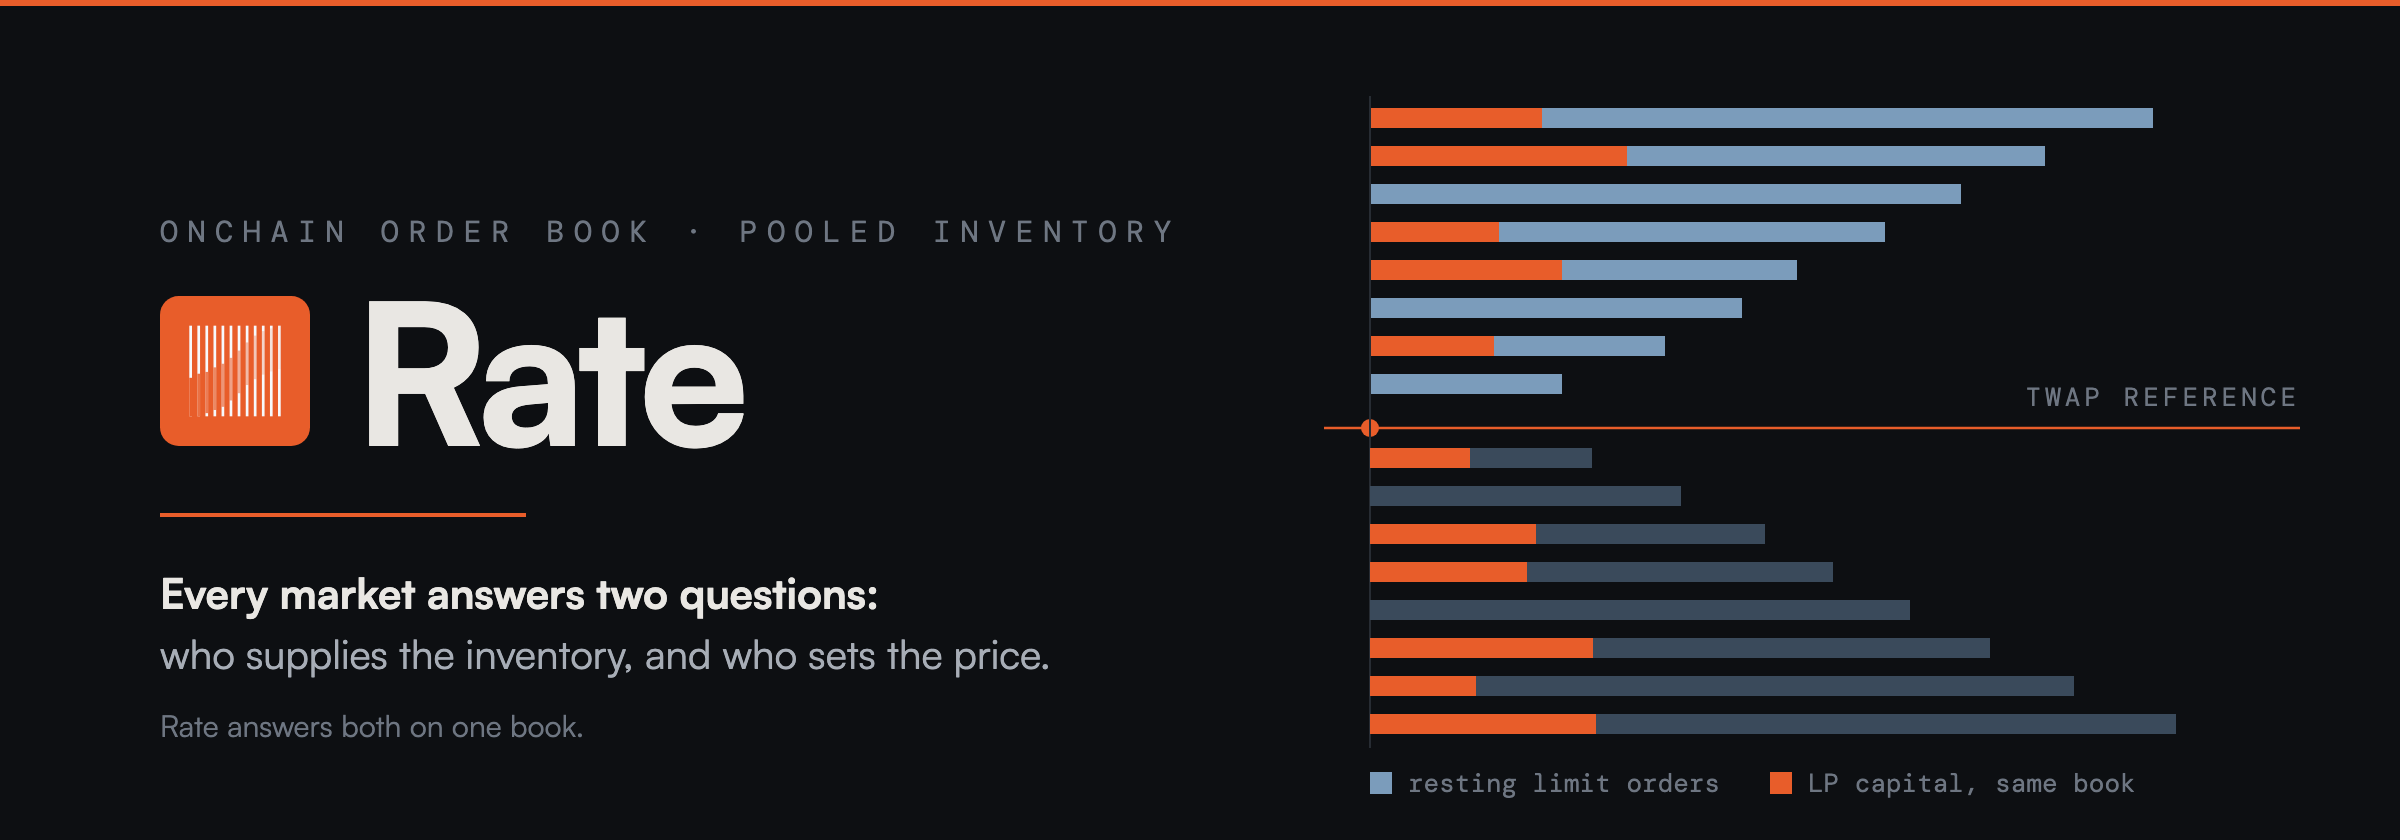
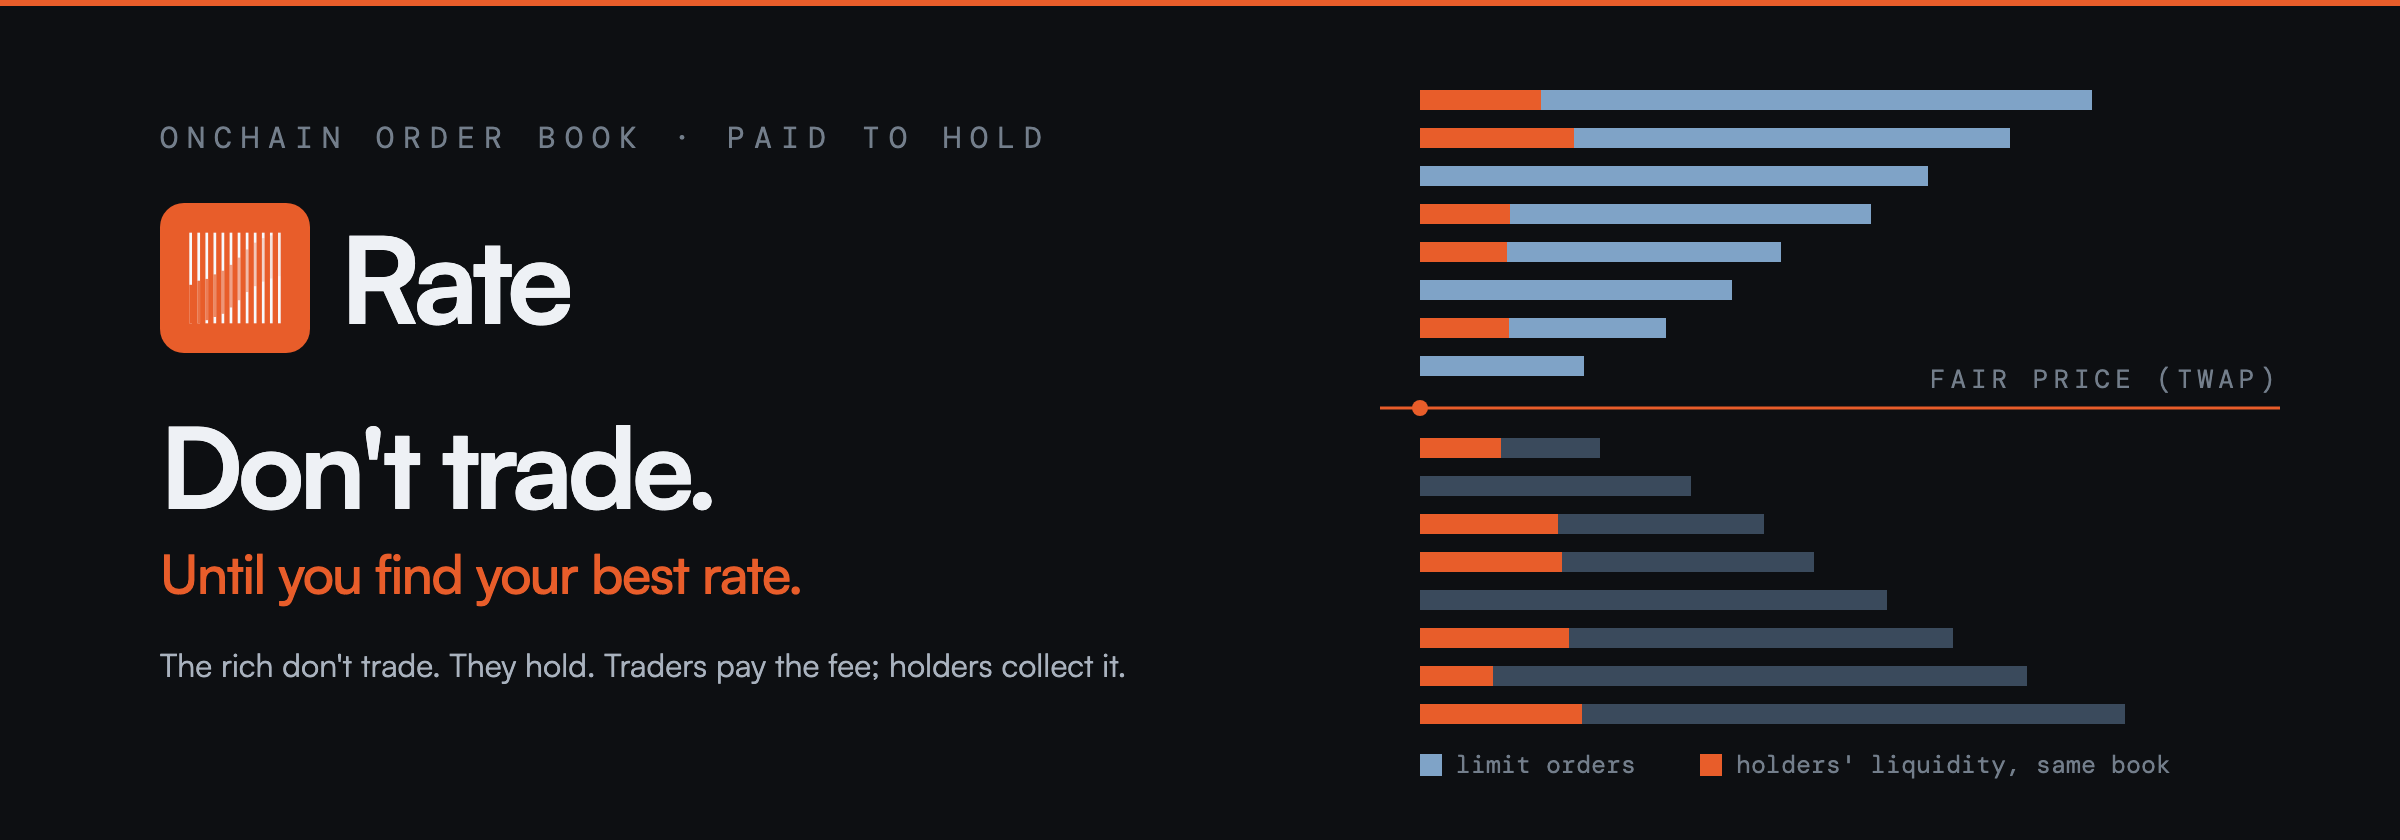
Don't trade. Until you find your best rate.
The profile leads with the brand line and the holder story, with the two
studies it rests on linked. The architecture section describes band pools
(BandPool / BandPositionManager) instead of the retired Pool.sol, and the
simulation figures say which design they measured.

diff --git a/profile/README.md b/profile/README.md
@@ -1,99 +1,90 @@
 <div align="center">
-  <img src="assets/profile.png" alt="Rate" width="96" />
-</div>
-
-<div align="center">
   <picture>
     <source media="(prefers-color-scheme: light)" srcset="assets/rate-banner-light.png" />
-    <img src="assets/rate-banner-dark.png" alt="Rate — an onchain order book with pooled inventory" width="900" />
+    <img src="assets/rate-banner-dark.png" alt="Rate. Don't trade. Until you find your best rate." width="900" />
   </picture>
 </div>
 
 <div align="center">
 
-**A fully onchain central limit order book, with permissionless liquidity resting on it.**
+**Don't trade. Until you find your best rate.**
 
 </div>
 
 ---
 
-## Every market answers two questions
+## The rich don't trade. They hold.
 
-Every trading venue — onchain or not — has to solve two problems that are easy to
-conflate but genuinely separate:
+Most of crypto is built to make you trade more: perps, leverage, points for volume.
+Every extra trade is a fee someone else collects. The evidence has been in for a long time:
 
-- **Inventory** — who supplies the assets available to trade against, and who bears the
-  risk of holding them while prices move?
-- **Settlement** — given a desire to trade, how is the execution price determined, and how
-  is the trade actually carried out?
+- Of 66,465 US households, those that traded most earned **11.4%** a year while the market
+  returned **17.9%** (Barber & Odean, [*Trading Is Hazardous to Your Wealth*](https://onlinelibrary.wiley.com/doi/abs/10.1111/0022-1082.00226), 2000).
+- Of people who day-traded Brazilian equity futures for more than 300 days, **97% lost money**
+  (Chague, De-Losso & Giovannetti, [*Day Trading for a Living?*](https://papers.ssrn.com/sol3/papers.cfm?abstract_id=3423101), 2019).
 
-DeFi has only ever answered one well at a time. Constant-product AMMs answered both at
-once with a single bonding curve: the curve *is* the inventory and *is* the pricing rule,
-so an LP has no way to say "I won't sell below this price." Concentrated liquidity loosened
-that, but a v3 position still transacts at whatever the curve computes once price enters
-its range. Order books answer settlement the way every mature financial market does — with
-explicit, price-prioritised quotes — but historically hand inventory back to professional
-market makers operating through a venue that hosts the book.
+Wealth is built the other way: by owning and holding. So Rate pays holders.
 
-**Rate answers both on one book.**
+## Get paid to hold
+
+A liquidity provider is the other side of every trade. On most DEXs that side gets a bad deal:
+a curve sells to anyone at a price it can't refuse, and the LP eats the difference. On Rate you
+are that side on your own terms.
+
+- **Bring the token you already own.** A one-token deposit swaps nothing: no fee to get in,
+  no price moved against you, no counterparty needed. Your token rests in a band ladder as
+  inventory.
+- **Set your rate.** Each band fills only at the pool's time-weighted anchor price, give or
+  take a tolerance bounded by the pair's slippage limit. There is no curve selling cheap to
+  whoever arrives first.
+- **Traders pay the fee. Holders collect it.** Traders who convert your inventory pay the
+  fee to the band's LPs. Fees vest over time, so patient capital earns in full and
+  hit-and-run liquidity doesn't.
+
+And when you do trade, trade at your rate: every fill on an open onchain order book, at a
+price you chose, self-custody the whole way.
 
 ## How it works
 
 - **Settlement is a fully onchain CLOB.** `MatchingEngine.sol` + `Orderbook.sol` run an
-  8-decimal fixed-point order queue with a per-pair matching discipline chosen at listing
-  time — size-priority or strict price-time priority. Nothing about pricing is implied by a
-  curve; a resting order is an exact declared price and size.
+  8-decimal fixed-point order queue. A resting order is an exact declared price and size;
+  nothing about pricing is implied by a curve.
+- **Inventory is pooled, and it rests on that same book.** `BandPool.sol` holds LP capital
+  in a ladder of bands; `BandPositionManager.sol` gives each position one ERC-1155 token
+  holding its whole ladder: the distribution, the fee checkpoints and one vesting clock.
+- **The reference price is time-weighted, not spot.** Bands price against a 300-second TWAP
+  anchor, and every pool print is clamped to the pair's rail before it reaches that anchor.
+  That is the load-bearing MEV mitigation, not an incidental choice.
+- **Unfilled demand becomes supply.** A swap settles what the book can fill now; the
+  remainder can rest as the trader's own order or as liquidity, deepening the book the next
+  swap draws from.
 
-- **Inventory is pooled, and it rests on that same book.** `Pool.sol` turns permissionless
-  LP capital into *ordinary limit orders* on the CLOB — not a second settlement primitive
-  beside it. A position is a price range plus a `slippageLimit`: the LP's own declared
-  tolerance. At swap time the pool assembles in-range positions tightest-tolerance-first
-  and submits both legs to the same matching engine everyone else trades against.
+## What we've measured, and what we haven't
 
-- **An LP's downside is bounded by their own signature.** Execution is bounded to
-  `TWAP × (1 ± slippageLimit)`. `slippageLimit = 0` is valid and means *only ever at the
-  reference price* — the structural answer to being the counterparty that validates a price
-  nobody should have accepted.
+The research repo carries a dependency-free simulation. In it, an LP whose fills are bounded
+to the reference price ± its own tolerance ends a 2× price move within **0.0013%** of simply
+holding, against **−5.7%** for Uniswap v2 and **−30.7%** for a ±10% v3 range. Two honest
+caveats:
 
-- **The reference price is time-weighted, not spot.** Pricing pool trades against
-  `Orderbook.twap` rather than the last matched price is the load-bearing MEV mitigation,
-  not an incidental choice.
+- That model was written for `Pool.sol`, the generation retired in September 2026. Band pools
+  keep the same fill bound, but **they have not been re-simulated yet**, so treat the figure as
+  the previous design's.
+- Bounded fills are not "no risk". If the price leaves your bands you end up holding the
+  other token. That is exposure, and it is real.
 
-- **Unfilled demand becomes supply.** Because settlement decomposes a trade into a
-  matched-now portion and a remainder, a partial fill still settles what it can and the rest
-  can rest as the trader's own order — deepening the book a swap draws from, rather than
-  reverting the way an all-or-nothing AMM route does.
-
-## What we measured — and what it costs
-
-Every number below comes from a dependency-free simulation released alongside the paper,
-and every one has a stated cost. Both halves are the point.
-
-| Claim | Result | The cost, stated |
-|---|---|---|
-| Impermanent loss is bounded by construction | 0.00% at `slippageLimit = 0`, −0.0013% at the widest tier tested, against −5.7% (v2) and −2.8% (v3) at a 2× price move | Occasional **partial fills** when tolerant in-range liquidity runs thin |
-| Same-block reference-price manipulation is damped | ~667× damping from the TWAP window; in the largest victim trade modelled, sandwich profit falls from ~$1,700 undamped to ~$2.55 — negative once the attacker pays their own gas | A **gas premium** over curve settlement |
-| A pool swap is more expensive than a curve swap | 717,574 gas measured vs. ~120k for a v2 swap | Break-even around **$5,000** of trade size at 30 gwei / $3,000 ETH, and around **$500** on cheap L2 blockspace |
-
-And the finding we are most willing to show — one against our own deployment: the
-simulation caught that `Pool.sol` **as currently wired** still charges the LP leg the 10bps
-maker fee and rebates a `poolFeeShare` that defaults to zero onchain, which makes the safest
-possible position (`slippageLimit = 0`) realise **−$1,000 per $1M matched** rather than the
-strictly-positive economics the intended fee design calls for. We found it by modelling
-ourselves, and it is written down in the paper rather than around it.
+The same simulation caught a flaw against our own deployment of the time: `Pool.sol` charged
+the LP leg the maker fee while its rebate defaulted to zero, which made the safest position
+lose money. We found it by modelling ourselves and wrote it into the paper instead of around it.
 
 ## Read the work
 
-- **[The research repo](https://github.com/rate-limo/rate-research)** — the
-  long-form working paper (*Every Market Answers Two Questions*), the condensed ACM
-  submission, the simulation that produces every figure above, and the ETHTokyo 2026 talk
-  materials.
-- **[The contracts](https://github.com/rate-limo/rate-contracts)** — the code the
-  paper cites by line number.
+- **[The research repo](https://github.com/rate-limo/rate-research)**: the working paper
+  (*Every Market Answers Two Questions*), the simulation behind every figure above, and the
+  ETHTokyo 2026 talk materials.
+- **[The contracts](https://github.com/rate-limo/rate-contracts)**: the code the paper cites.
 
-No token. No pitch. The paper, the simulations, and the numbers that go against us are
-published so they can be read, checked, and argued with.
+Rate runs on testnet today. Nothing here is investment advice.
 
 ---
 
-*First-principles market design. Claims stated with their costs. Long-term system design.*
+*Don't trade. Until you find your best rate.*
